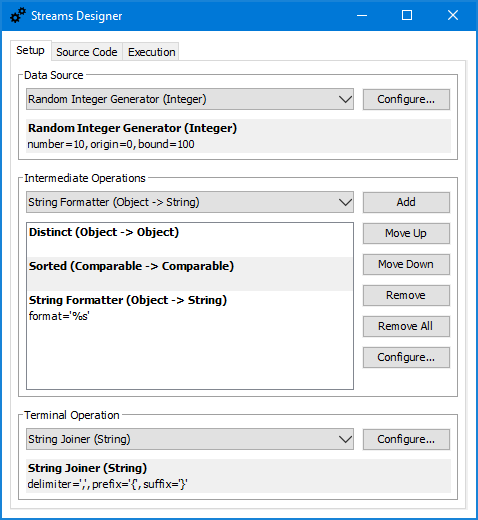
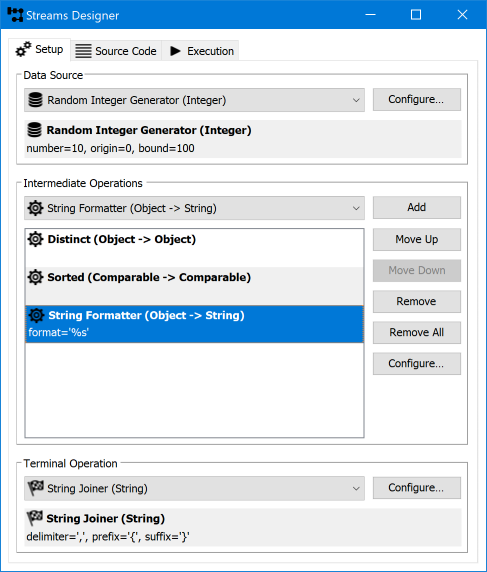
Added multiresolution images

diff --git a/src/main/java/name/ulbricht/streams/ui/Images.java b/src/main/java/name/ulbricht/streams/ui/Images.java
@@ -1,0 +1,99 @@
+package name.ulbricht.streams.ui;
+
+import java.awt.Image;
+import java.awt.image.BaseMultiResolutionImage;
+import java.awt.image.MultiResolutionImage;
+import java.io.IOException;
+import java.net.URL;
+import java.util.Collections;
+import java.util.List;
+import java.util.ListResourceBundle;
+import java.util.MissingResourceException;
+import java.util.Objects;
+import java.util.Optional;
+import java.util.ResourceBundle;
+import java.util.stream.Collectors;
+import java.util.stream.IntStream;
+
+import javax.imageio.ImageIO;
+import javax.swing.Icon;
+import javax.swing.ImageIcon;
+
+public final class Images extends ListResourceBundle {
+
+	private static final String BUNDLE_NAME = "name.ulbricht.streams.ui.Images";
+
+	private static final ResourceBundle RESOURCE_BUNDLE = ResourceBundle.getBundle(BUNDLE_NAME);
+
+	static final String APPLICATION = "application";
+	static final String SETUP = "setup";
+	static final String CODE = "code";
+	static final String EXECUTION = "execution";
+	static final String STREAM_SOURCE = "StreamSource";
+	static final String INTERMEDIATE_OPERATION = "IntermediateOperation";
+	static final String TERMINAL_OPERATION = "TerminalOperation";
+	static final String LOG = "log";
+	static final String CONSOLE = "console";
+	static final String STATISTICS = "statistics";
+
+	public static Icon getSmallIcon(final String key) {
+		return getIcon(key, 16);
+	}
+
+	public static Icon getIcon(final String key, final int size) {
+		return getImage(key, size).map(ImageIcon::new).orElse(null);
+	}
+
+	public static Optional<Image> getImage(final String key, final int size) {
+		try {
+			return Optional
+					.of(((MultiResolutionImage) RESOURCE_BUNDLE.getObject(key)).getResolutionVariant(size, size));
+		} catch (final MissingResourceException ex) {
+			return Optional.empty();
+		}
+	}
+
+	public static List<Icon> getIcons(final String key) {
+		return getImages(key).stream().map(ImageIcon::new).collect(Collectors.toList());
+	}
+
+	public static List<Image> getImages(final String key) {
+		try {
+			return ((MultiResolutionImage) RESOURCE_BUNDLE.getObject(key)).getResolutionVariants();
+		} catch (final MissingResourceException ex) {
+			return Collections.emptyList();
+		}
+	}
+
+	@Override
+	protected Object[][] getContents() {
+		return new Object[][] { //
+				{ APPLICATION, loadMultiResolutionImage("app-%s.png") }, //
+				{ SETUP, loadMultiResolutionImage("setup-%s.png") }, //
+				{ CODE, loadMultiResolutionImage("code-%s.png") }, //
+				{ EXECUTION, loadMultiResolutionImage("execution-%s.png") }, //
+				{ STREAM_SOURCE, loadMultiResolutionImage("source-%s.png") }, //
+				{ INTERMEDIATE_OPERATION, loadMultiResolutionImage("intermediate-%s.png") }, //
+				{ TERMINAL_OPERATION, loadMultiResolutionImage("terminal-%s.png") }, //
+				{ LOG, loadMultiResolutionImage("log-%s.png") }, //
+				{ CONSOLE, loadMultiResolutionImage("console-%s.png") }, //
+				{ STATISTICS, loadMultiResolutionImage("statistics-%s.png") } //
+		};
+	}
+
+	private static final int[] TYPICAL_IMAGE_SIZES = new int[] { 16, 24, 32, 48, 64, 128, 256, 512 };
+
+	private static MultiResolutionImage loadMultiResolutionImage(final String namePattern) {
+		return new BaseMultiResolutionImage(IntStream.of(TYPICAL_IMAGE_SIZES)
+				.mapToObj(size -> String.format(namePattern, size)).map(Images.class::getResource)
+				.filter(Objects::nonNull).map(Images::readImage).filter(Objects::nonNull).toArray(Image[]::new));
+	}
+
+	private static Image readImage(final URL url) {
+		try {
+			return ImageIO.read(url);
+		} catch (final IOException ex) {
+			return null;
+		}
+	}
+}

diff --git a/src/main/java/name/ulbricht/streams/ui/MainFrame.java b/src/main/java/name/ulbricht/streams/ui/MainFrame.java
@@ -11,10 +11,7 @@ import java.util.List;
 import java.util.Objects;
 import java.util.concurrent.ExecutionException;
 import java.util.logging.Logger;
-import java.util.stream.Collectors;
-import java.util.stream.IntStream;
 
-import javax.swing.ImageIcon;
 import javax.swing.JButton;
 import javax.swing.JComboBox;
 import javax.swing.JFrame;
@@ -54,14 +51,12 @@ public final class MainFrame extends JFrame {
 		setDefaultCloseOperation(WindowConstants.DISPOSE_ON_CLOSE);
 		setLocationByPlatform(true);
 		setTitle(Messages.getString("MainFrame.title"));
-		setIconImages(IntStream.of(16, 24, 32, 48, 64, 128, 256, 512).mapToObj(i -> "app-" + i + ".png")
-				.map(getClass()::getResource).map(ImageIcon::new).map(ImageIcon::getImage)
-				.collect(Collectors.toList()));
+		setIconImages(Images.getImages(Images.APPLICATION));
 
 		this.tabbedPane = new JTabbedPane();
-		addTabPane(this.tabbedPane, createSetupPanel(), "tabSetup.title", "tabSetup.icon");
-		addTabPane(this.tabbedPane, createCodePanel(), "tabCode.title", "tabCode.icon");
-		addTabPane(this.tabbedPane, createExecutionPanel(), "tabExecution.title", "tabExecution.icon");
+		addTabPane(this.tabbedPane, createSetupPanel(), "tabSetup.title", Images.SETUP);
+		addTabPane(this.tabbedPane, createCodePanel(), "tabCode.title", Images.CODE);
+		addTabPane(this.tabbedPane, createExecutionPanel(), "tabExecution.title", Images.EXECUTION);
 
 		final var contentPane = new JPanel(new BorderLayout());
 		contentPane.setBackground(SystemColor.window);
@@ -459,9 +454,10 @@ public final class MainFrame extends JFrame {
 		nameColumn.setCellRenderer(new StreamOperationTableCellRenderer());
 
 		this.executionTabbedPane = new JTabbedPane();
-		this.executionTabbedPane.add(Messages.getString("tabLog.title"), new JScrollPane(this.logTextArea));
-		this.executionTabbedPane.add(Messages.getString("tabSysOut.title"), new JScrollPane(this.sysOutTextArea));
-		this.executionTabbedPane.add(Messages.getString("tabStatistics.title"), new JScrollPane(this.statisticsTable));
+		addTabPane(this.executionTabbedPane, new JScrollPane(this.logTextArea), "tabLog.title", Images.LOG);
+		addTabPane(this.executionTabbedPane, new JScrollPane(this.sysOutTextArea), "tabSysOut.title", Images.CONSOLE);
+		addTabPane(this.executionTabbedPane, new JScrollPane(this.statisticsTable), "tabStatistics.title",
+				Images.STATISTICS);
 
 		panel.add(this.executeButton, new GridBagConstraints(0, 0, 1, 1, 0, 0, GridBagConstraints.EAST,
 				GridBagConstraints.NONE, new Insets(4, 4, 4, 4), 0, 0));
@@ -526,6 +522,6 @@ public final class MainFrame extends JFrame {
 			final String iconResource) {
 		tabbedPane.add(Messages.getString(titleResource), component);
 		final var tabIndex = tabbedPane.indexOfComponent(component);
-		tabbedPane.setIconAt(tabIndex, Messages.getIcon(iconResource));
+		tabbedPane.setIconAt(tabIndex, Images.getSmallIcon(iconResource));
 	}
 }

diff --git a/src/main/java/name/ulbricht/streams/ui/StreamOperationClassListCellRenderer.java b/src/main/java/name/ulbricht/streams/ui/StreamOperationClassListCellRenderer.java
@@ -15,10 +15,6 @@ import name.ulbricht.streams.api.TerminalOperation;
 
 final class StreamOperationClassListCellRenderer implements ListCellRenderer<Class<? extends StreamOperation>> {
 
-	private static Icon sourceIcon = Messages.getIcon("StreamSource.icon");
-	private static Icon intermediateIcon = Messages.getIcon("IntermediateOperation.icon");
-	private static Icon terminalIcon = Messages.getIcon("TerminalOperation.icon");
-
 	private final ListCellRenderer<Object> delegate = new DefaultListCellRenderer();
 
 	@Override
@@ -34,11 +30,11 @@ final class StreamOperationClassListCellRenderer implements ListCellRenderer<Cla
 			Icon icon = null;
 			if (value != null) {
 				if (StreamSource.class.isAssignableFrom(value))
-					icon = sourceIcon;
+					icon = Images.getSmallIcon(Images.STREAM_SOURCE);
 				else if (IntermediateOperation.class.isAssignableFrom(value))
-					icon = intermediateIcon;
+					icon = Images.getSmallIcon(Images.INTERMEDIATE_OPERATION);
 				else if (TerminalOperation.class.isAssignableFrom(value))
-					icon = terminalIcon;
+					icon = Images.getSmallIcon(Images.TERMINAL_OPERATION);
 			}
 			label.setIcon(icon);
 		}

diff --git a/src/main/java/name/ulbricht/streams/ui/StreamOperationTableCellRenderer.java b/src/main/java/name/ulbricht/streams/ui/StreamOperationTableCellRenderer.java
@@ -15,10 +15,6 @@ import name.ulbricht.streams.api.TerminalOperation;
 
 public class StreamOperationTableCellRenderer implements TableCellRenderer {
 
-	private static Icon sourceIcon = Messages.getIcon("StreamSource.icon");
-	private static Icon intermediateIcon = Messages.getIcon("IntermediateOperation.icon");
-	private static Icon terminalIcon = Messages.getIcon("TerminalOperation.icon");
-
 	private final TableCellRenderer delegate = new DefaultTableCellRenderer();
 
 	@Override
@@ -36,11 +32,11 @@ public class StreamOperationTableCellRenderer implements TableCellRenderer {
 			Icon icon = null;
 			if (operation != null) {
 				if (operation instanceof StreamSource)
-					icon = sourceIcon;
+					icon = Images.getSmallIcon(Images.STREAM_SOURCE);
 				else if (operation instanceof IntermediateOperation)
-					icon = intermediateIcon;
+					icon = Images.getSmallIcon(Images.INTERMEDIATE_OPERATION);
 				else if (operation instanceof TerminalOperation)
-					icon = terminalIcon;
+					icon = Images.getSmallIcon(Images.TERMINAL_OPERATION);
 			}
 			label.setIcon(icon);
 		}

diff --git a/src/main/java/name/ulbricht/streams/ui/StreamOperationPanel.java b/src/main/java/name/ulbricht/streams/ui/StreamOperationPanel.java
@@ -21,10 +21,6 @@ final class StreamOperationPanel extends JPanel {
 
 	private static final long serialVersionUID = 1L;
 
-	private static Icon sourceIcon = Messages.getIcon("StreamSource.icon");
-	private static Icon intermediateIcon = Messages.getIcon("IntermediateOperation.icon");
-	private static Icon terminalIcon = Messages.getIcon("TerminalOperation.icon");
-
 	private final JLabel nameLabel;
 	private final JTextField configTextField;
 
@@ -69,11 +65,11 @@ final class StreamOperationPanel extends JPanel {
 
 		final Icon icon;
 		if (streamOperation instanceof StreamSource)
-			icon = sourceIcon;
+			icon = Images.getSmallIcon(Images.STREAM_SOURCE);
 		else if (streamOperation instanceof IntermediateOperation)
-			icon = intermediateIcon;
+			icon = Images.getSmallIcon(Images.INTERMEDIATE_OPERATION);
 		else if (streamOperation instanceof TerminalOperation)
-			icon = terminalIcon;
+			icon = Images.getSmallIcon(Images.TERMINAL_OPERATION);
 		else
 			icon = null;
 		this.nameLabel.setIcon(icon);

diff --git a/src/main/java/name/ulbricht/streams/ui/Messages.java b/src/main/java/name/ulbricht/streams/ui/Messages.java
@@ -3,9 +3,6 @@ package name.ulbricht.streams.ui;
 import java.util.MissingResourceException;
 import java.util.ResourceBundle;
 
-import javax.swing.Icon;
-import javax.swing.ImageIcon;
-
 final class Messages {
 
 	private static final String BUNDLE_NAME = "name.ulbricht.streams.ui.messages";
@@ -19,17 +16,8 @@ final class Messages {
 	public static String getString(final String key) {
 		try {
 			return RESOURCE_BUNDLE.getString(key);
-		} catch (final MissingResourceException e) {
+		} catch (final MissingResourceException ex) {
 			return '!' + key + '!';
-		}
-	}
-
-	public static Icon getIcon(final String key) {
-		try {
-			final var iconName = RESOURCE_BUNDLE.getString(key);
-			return new ImageIcon(Messages.class.getResource(iconName));
-		} catch (final MissingResourceException e) {
-			return null;
 		}
 	}
 }
